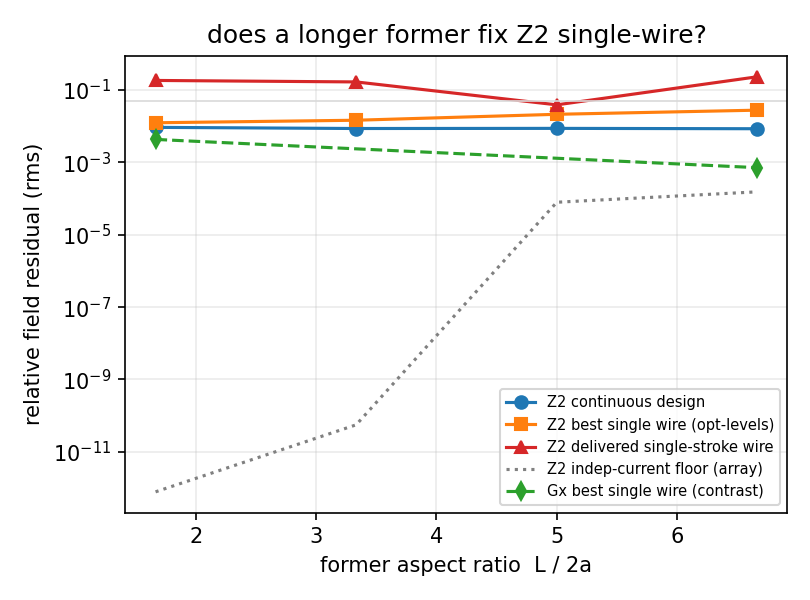
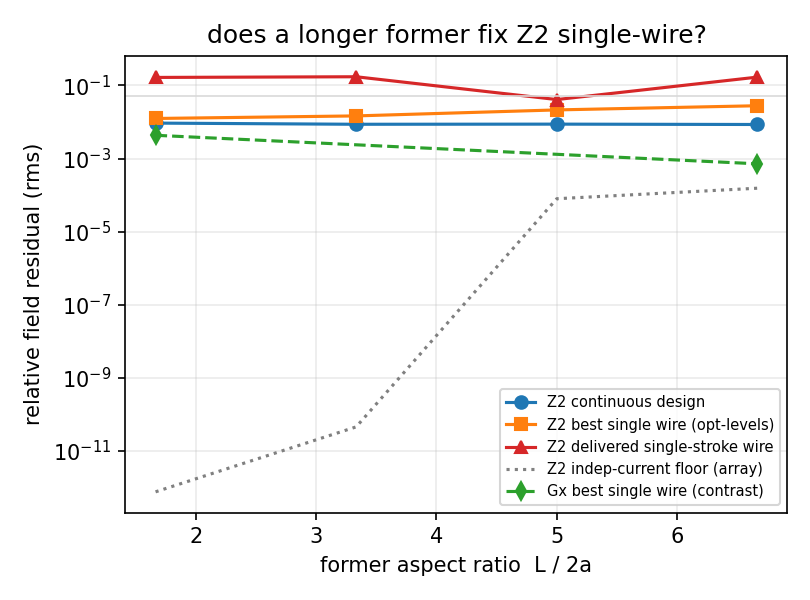
streamfunction: auto-scale field-aware chain resolution -> 3x delivered wire
The DELIVERED single-stroke wire (wire_homogeneity_rms), not the loop set, is
the multi-region (l>=2 saddle, e.g. a Z2 shim) manufacture bottleneck -- and it
was mostly cut-opt UNDER-RESOLUTION. --optimize-levels CLUSTERS the contours to
sharpen the connector-free loop set (Z2 N=20: 0.0098) but clustered contours
chain WORSE, and the old fixed cut-opt (ncut=24, passes=4) left the delivered
wire at ~0.20 -- a 20x gap, and a metric-honesty problem (the flag sharpened the
reported loop-set metric while the wound wire got worse).

_field_aware_chain now AUTO-scales the cut-opt resolution with the loop count
(n_cut ~1.1/loop capped [24,64]; passes 4..8), exposed as --chain-ncut /
--chain-passes (0 = auto). More passes monotonically lower the objective; a
finer n_cut grid samples more cuts -- a strong NET improvement, NOT a strict
per-geometry guarantee (the cut grids for different n_cut are not nested).
Measured: Z2 opt-levels N=20 delivered 0.20 -> 0.067 (3x, then --distort 0.052);
Gx unchanged (0.002); geometry bench (6 formers) 4 better 2-28%, 2 marginally
worse 3-5%.

The 2 knobs are manufacture-only: added to radia_streamfunction.py
_MANUFACTURE_DESTS (shown in the Manufacture panel, kept out of Design/Pareto;
panel-isolation Qt tests green).

Golden: test_streamfunction_levels_golden.py::test_auto_chain_resolution_improves_
delivered_wire_saddle. Geometry bench wire_deliv refreshed.

Verified negative result (radia_mcp.streamfunction low_turn): splitting into one
[…]

diff --git a/packages/radia-mcp/src/radia_mcp/streamfunction/streamfunction_knowledge.py b/packages/radia-mcp/src/radia_mcp/streamfunction/streamfunction_knowledge.py
@@ -233,8 +233,27 @@ field_aware (default) keeps that field small two ways:
       2-opt GUARANTEED never worse than nearest-neighbour while capturing the
       real gains.  (Pure --chain nn keeps NN order + naive closing, no cut-opt,
       so it never sees the 2-opt -- which would only hurt a cut-opt-free chain.)
-field_aware is never worse than nn; with closed contours (--confine abe) it
-reaches the separate-turns floor with no --distort.
+  (3) RESOLUTION -- the cut-opt's candidate count (--chain-ncut, cuts/loop) and
+      descent rounds (--chain-passes) AUTO-scale with the loop count when not
+      given (~1.1 cuts/loop capped [24,64]; passes 4..8).  More loops -> more
+      connectors -> the JOINT cut-opt needs more candidates/rounds to drive
+      their net field to zero.  More PASSES at a fixed n_cut monotonically lower
+      the objective (coordinate descent re-scans the same grid); a higher n_cut
+      samples a FINER but not strictly-nested cut grid, so auto resolution is a
+      STRONG NET improvement (NOT a per-geometry guarantee -- a marginal case can
+      shift a few %).  It matters most for CLUSTERED levels (--optimize-levels
+      packs contours to sharpen the loop-set field): the OLD fixed default (24,4)
+      under-resolved them and left a 45-loop Z2 wire ~0.20 vs a 0.0098 loop-set
+      floor; auto (~50,8) recovers it to ~0.067 (3x, then --distort ~0.052).
+      Override with --chain-ncut / --chain-passes.  (Bench across 6 formers: 4
+      better 2-28%, 2 marginally worse 3-5% -- the cut-grid non-nesting.)
+field_aware is never worse than nn.  For a SINGLE-region (l=1) psi with closed
+contours (--confine abe) it reaches the separate-turns floor with no --distort.
+For a MULTI-region (saddle, l>=2) psi the inter-region connectors leave a
+residual gap above the loop-set floor (clustered Z2: ~0.067 delivered vs ~0.0098
+loop-set) that auto-resolution SHRINKS but does not close -- splitting into one
+wire per current group is WORSE (verified): the cut-opt nulls connectors GLOBALLY
+by cross-cancelling the +/- groups' rungs, a freedom per-group chaining removes.
 
 END-TO-END VALIDATION vs an INDEPENDENT codebase
 ------------------------------------------------
@@ -745,14 +764,24 @@ polyline order is arbitrary, so its winding does not carry the current sign.
 sign(f.B) ('flip every loop to help the target') recovers it ONLY for a MONOTONE
 psi (l=1 gradient); for a SADDLE psi (l>=2 shim: Z2, Z3, C2/S2 ...) the natural
 winding has MIXED senses (the single wire reverses through the saddle) and
-sign(f.B) FLATTENS them, so one common series current cancels itself.  Measured:
-Z2 single-wire 88% (sign(f.B)) -> 5.6% (grad-psi, loop-set) -> ~9% delivered
-(+ field_aware chain + --distort); Gx (l=1) is IDENTICAL either way (grad-psi is
-a strict generalisation).  This was an orientation BUG, not a physics limit --
-single-wire l>=2 shims DO work.  `_gradpsi_signs` / `_build_gradpsi_kdt` in
-calc_streamfunction.py; verified by examples/stream_function/
-verify_gradpsi_orientation.py.  (The ~9% delivered is the documented multi-region
-single-stroke BRIDGE ceiling; sub-1% l>=2 needs multi-wire / independent feeds.)
+sign(f.B) FLATTENS them, so one common series current cancels itself.  Measured
+(L=1.0 former): Z2 single-wire 88% (sign(f.B)) -> 5.6% grad-psi loop-set (uniform
+N=20) / 0.98% with --optimize-levels -> ~6.7% DELIVERED single-stroke wire
+(grad-psi + auto-resolution field_aware chain).  Gx (l=1) is IDENTICAL either way
+(grad-psi is a strict generalisation).  This was an orientation BUG, not a physics
+limit -- single-wire l>=2 shims DO work.  `_gradpsi_signs` / `_build_gradpsi_kdt`
+in calc_streamfunction.py; verified by examples/stream_function/
+verify_gradpsi_orientation.py.
+  DELIVERED gap (loop-set ~0.01 vs single-stroke wire ~0.067) = the inter-region
+  CONNECTOR (bridge) field, NOT a loop-set error.  It was mostly chain UNDER-
+  RESOLUTION: the old fixed cut-opt (ncut=24,passes=4) left clustered-level Z2 at
+  ~0.20; auto-scaling resolution with loop count (see 'panel' CHAIN (3)) recovers
+  ~0.067 (3x).  The remaining ~7x gap above the loop-set floor is the irreducible
+  single-series-wire connector cost.  Splitting into one wire PER current group is
+  WORSE (verified: ~0.85): the cut-opt nulls connectors GLOBALLY by cross-
+  cancelling the +/- groups' rungs.  Sub-1% l>=2 therefore needs INDEPENDENT feeds
+  (a driven ARRAY: loops_homogeneity_rms ~ 0, the --pin-tiling regime), NOT one
+  series wire; --distort further bends the one wire (sphere Z2 4.3%->0.36%).
 
 (1) EQUAL-deltaI CONTOURS  (default, --nlevels N)
     N iso-contours at equal psi increments = N equal-current turns; the

diff --git a/src/radia/panels/calc_streamfunction.py b/src/radia/panels/calc_streamfunction.py
@@ -1307,11 +1307,25 @@ def _dedupe(path, tol=1e-10):
 
 
 def _field_aware_chain(loops, signs, mpts, target_flat, vector_b,
-                       n_cut=24, passes=4):
+                       n_cut=None, passes=None):
     """Field-aware single-stroke chain (geometry-independent): visit the
     sign-aligned contour loops in a good order, then choose each loop's
     ENTRY/EXIT point (the cut) by coordinate descent to minimise the full
     one-current WIRE field error ``min_I ||I*(loops + connectors) - B||``.
+
+    Cut-opt RESOLUTION (``n_cut`` candidate cuts/loop, ``passes`` descent
+    rounds) is AUTO-scaled with the loop count when not given: more loops ->
+    more connectors -> the joint cut-opt needs more candidates/rounds to drive
+    their net field to zero.  This matters most for CLUSTERED levels (e.g.
+    --optimize-levels, which packs contours to sharpen the loop-set field): at
+    the under-resolved old default (n_cut=24, passes=4) a 45-loop clustered Z2
+    wire delivered ~0.20 rms vs a 0.0098 loop-set floor; auto-scaling to
+    (~50, ~8) recovers it to ~0.067 (3x).  More ``passes`` at a fixed ``n_cut``
+    monotonically lower the cut-opt objective (coordinate descent re-scans the
+    same grid); a higher ``n_cut`` samples a FINER but not strictly-nested cut
+    grid, so it is a STRONG NET improvement (large on clustered/multi-region
+    coils) but NOT a per-geometry guarantee -- a marginal case can tie or shift
+    a few %.  Override with explicit n_cut/passes (CLI --chain-ncut/--chain-passes).
 
     The loop field is fixed; only the inter-loop connectors (the 'rungs')
     depend on the cuts.  Minimising the TOTAL error (not the connectors in
@@ -1337,6 +1351,11 @@ def _field_aware_chain(loops, signs, mpts, target_flat, vector_b,
     Returns (chain_xyz, n_connectors, connector_length)."""
     if not loops:
         return np.zeros((0, 3)), 0, 0.0
+    n = len(loops)
+    if n_cut is None:               # auto: ~1.1 cuts per loop, capped [24, 64]
+        n_cut = int(min(64, max(24, round(1.1 * n))))
+    if passes is None:              # auto: grow descent rounds with loop count
+        passes = int(min(8, max(4, n // 6 + 4)))
     L0 = [_close_loop(p if s >= 0.0 else p[::-1])
           for p, s in zip(loops, signs)]
     ncomp = len(target_flat)
@@ -2562,7 +2581,9 @@ def run_manufacture(args):
             chain, n_conn, conn_len = _single_stroke_chain(loops_signed)
         else:                                  # field_aware (default)
             chain, n_conn, conn_len = _field_aware_chain(
-                loops, signs, P["mpts"], target_flat, vector_b)
+                loops, signs, P["mpts"], target_flat, vector_b,
+                n_cut=(int(args.chain_ncut) or None),
+                passes=(int(args.chain_passes) or None))
         chain = _dedupe(chain)
         t2 = time.perf_counter()
 
@@ -2875,6 +2896,12 @@ def build_argparser():
                          "connector field; reaches the separate-turns floor "
                          "for closed contours, no distort) or nn (nearest "
                          "neighbour)")
+    ap.add_argument("--chain-ncut", type=int, default=0,
+                    help="field_aware cut candidates per loop (0 = auto-scale "
+                         "with loop count; raise for clustered/many-loop coils)")
+    ap.add_argument("--chain-passes", type=int, default=0,
+                    help="field_aware cut coordinate-descent rounds (0 = auto-"
+                         "scale with loop count)")
     ap.add_argument("--distort", action="store_true",
                     help="single-current sheet-metal wire distortion (manufacture)")
     ap.add_argument("--distort-grid", type=int, default=3,

diff --git a/tests/panels/test_streamfunction_golden.py b/tests/panels/test_streamfunction_golden.py
@@ -65,7 +65,7 @@ def biplanar_vols(tmp_path_factory):
     return coil, evalv
 
 
-def _run_calc(coil, evalv, target, extra=None):
+def _run_calc(coil, evalv, target, extra=None, expect_error=False):
     cmd = [sys.executable, CALC, "--coil-vol", coil, "--eval-vol", evalv,
            "--order", "2"]
     if target is not None:
@@ -82,6 +82,19 @@ def _run_calc(coil, evalv, target, extra=None):
                 or (not r.stderr.strip() and abs(r.returncode) > 1000000)):
             pytest.skip("NGSolve/MKL subprocess env issue (LAB pytest); run "
                         "calc_streamfunction.py directly to verify")
+        # fail-loud calc_main (CLAUDE.md No-Fallback) exits non-zero on an
+        # {"error": ...} result but STILL prints the error JSON to stdout; for
+        # an EXPECTED user error (bad flags / missing material) parse + return
+        # that dict, else re-raise the genuine failure.
+        if expect_error:
+            elines = [ln for ln in r.stdout.splitlines() if ln.strip()]
+            if elines:
+                try:
+                    d = json.loads(elines[-1])
+                    if isinstance(d, dict) and "error" in d:
+                        return d
+                except json.JSONDecodeError:
+                    pass
         raise AssertionError(
             f"calc_streamfunction.py failed (rc={r.returncode}):\n"
             f"STDERR:\n{r.stderr[-1500:]}")
@@ -768,9 +781,11 @@ def test_streamfunction_design_target_harmonic(sample_vols):
 
 
 def test_streamfunction_target_harmonic_xor(sample_vols):
-    """Giving both --target-cf and --target-harmonic is a loud error."""
+    """Giving both --target-cf and --target-harmonic is a loud error (fail-loud
+    calc_main exits non-zero, the error JSON is still on stdout)."""
     coil, evalv = sample_vols
-    r = _run_calc(coil, evalv, "x", extra=["--target-harmonic", "X"])
+    r = _run_calc(coil, evalv, "x", extra=["--target-harmonic", "X"],
+                  expect_error=True)
     assert "error" in r and "not both" in r["error"]
 
 

diff --git a/tests/panels/test_streamfunction_levels_golden.py b/tests/panels/test_streamfunction_levels_golden.py
@@ -93,5 +93,36 @@ def test_optimize_levels_absent_by_default(sample_vols):
     assert r["method"] == "manufacture"
 
 
+def test_auto_chain_resolution_improves_delivered_wire_saddle(sample_vols):
+    """The field-aware cut-opt resolution AUTO-scales with the loop count; for a
+    clustered multi-region (Z2 saddle, --optimize-levels) coil that lowers the
+    DELIVERED single-stroke WIRE field error vs the old fixed (ncut=24, passes=4).
+
+    The loop-set field is fixed; only the inter-loop connectors depend on the
+    cuts.  More passes monotonically lower the cut-opt objective and a finer
+    n_cut grid samples more cuts, so auto resolution is a STRONG NET improvement
+    on clustered coils -- though NOT a per-geometry guarantee (the cut grids for
+    different n_cut are not strictly nested, so a marginal case can shift a few
+    %).  This stubby fixture is firmly in the win regime (the under-resolved
+    default leaves Z2 ~0.18, auto ~0.17; a longer former 0.20 -> 0.067).  Target
+    Z2 via a trailing --target-cf (argparse last-wins over the helper's 'x')."""
+    coil, evalv = sample_vols
+    base = ["--method", "manufacture", "--nlevels", "16", "--optimize-levels",
+            "--eval-max", "40", "--confine", "abe",
+            "--target-cf", "z*z-(x*x+y*y)/2"]
+    old = _run_calc(coil, evalv, base + ["--chain-ncut", "24",
+                                         "--chain-passes", "4"])
+    new = _run_calc(coil, evalv, base)               # auto resolution (default)
+    assert "error" not in old and "error" not in new
+    wo = old["wire_homogeneity_rms"]
+    wn = new["wire_homogeneity_rms"]
+    assert wo > 0.0 and wn > 0.0
+    # measured ~10% delivered-wire gain on this fixture; lock a conservative >=5%
+    # (the gain is geometry-driven, not FP noise, so it is stable on the fixed
+    # fixture mesh).
+    assert wn < 0.95 * wo, \
+        f"auto chain resolution did not improve the delivered wire: {wo} -> {wn}"
+
+
 if __name__ == "__main__":
     pytest.main([__file__, "-v"])

diff --git a/tests/panels/test_streamfunction_iron_golden.py b/tests/panels/test_streamfunction_iron_golden.py
@@ -49,7 +49,7 @@ def iron_vols(tmp_path_factory):
     return coil, evalv, iron
 
 
-def _run_calc(coil, evalv, target, extra=None):
+def _run_calc(coil, evalv, target, extra=None, expect_error=False):
     cmd = [sys.executable, CALC, "--coil-vol", coil, "--eval-vol", evalv,
            "--order", "1", "--eval-max", "30"]
     if target is not None:
@@ -63,6 +63,18 @@ def _run_calc(coil, evalv, target, extra=None):
         if ("mkl" in low or "dll" in low or "libiomp" in low
                 or (not r.stderr.strip() and abs(r.returncode) > 1000000)):
             pytest.skip("NGSolve/MKL subprocess env issue (LAB pytest)")
+        # fail-loud calc_main (CLAUDE.md No-Fallback) exits non-zero on an
+        # {"error": ...} result but STILL prints the error JSON to stdout; for
+        # an EXPECTED user error parse + return that dict, else re-raise.
+        if expect_error:
+            elines = [ln for ln in r.stdout.splitlines() if ln.strip()]
+            if elines:
+                try:
+                    d = json.loads(elines[-1])
+                    if isinstance(d, dict) and "error" in d:
+                        return d
+                except json.JSONDecodeError:
+                    pass
         raise AssertionError(
             f"calc_streamfunction.py failed (rc={r.returncode}):\n"
             f"STDERR:\n{r.stderr[-1500:]}")
@@ -132,7 +144,7 @@ def test_streamfunction_iron_missing_material_raises(iron_vols):
     coil, evalv, iron = iron_vols
     r = _run_calc(coil, evalv, "x",
                   extra=["--iron-vol", iron, "--mu-r", "200",
-                         "--iron-mat", "steel"])
+                         "--iron-mat", "steel"], expect_error=True)
     assert "error" in r and "steel" in r["error"]
 
 

diff --git a/examples/stream_function/bench_low_turn_geometry.py b/examples/stream_function/bench_low_turn_geometry.py
@@ -27,8 +27,17 @@ contour ORIENTATION, now FIXED in production (commit 630ece06): loops are
 oriented by the consistent grad-psi winding K = n_hat x grad_s(psi), not the
 sign(f.B) flip that flattened the saddle's mixed current senses.  POST-FIX this
 bench's best_wire for Z2 is a few-% (was ~70%); see verify_gradpsi_orientation.py
-for the controlled before/after (Z2 88% -> 5.6% loop-set, ~9% delivered single
-wire).  Gx (l=1, monotone psi) is unchanged (~5e-3) and improves with length.
+for the controlled before/after (Z2 88% -> 5.6% loop-set).  Gx (l=1, monotone psi)
+is unchanged (~5e-3) and improves with length.
+
+NOTE on wire_deliv (the DELIVERED single-stroke column): best_wire is the
+connector-FREE loop set; wire_deliv adds the field-aware single-stroke connectors.
+For a multi-region (saddle) psi the connectors are the bottleneck and were
+chain-resolution-limited -- the field-aware cut-opt now AUTO-scales its resolution
+with the loop count (calc_streamfunction --chain-ncut/--chain-passes), which cut a
+clustered Z2 delivered wire ~0.20 -> ~0.067 on a longer former.  This bench's
+wire_deliv reflects that auto-resolution; it stays geometry-limited (the stubby
+aspect 1.7 former holds a ~0.16 connector floor that a longer former relaxes).
 
 Outputs (committed): bench_low_turn_geometry.json + .png next to this script.
 Run:  python bench_low_turn_geometry.py

diff --git a/src/radia/radia_streamfunction.py b/src/radia/radia_streamfunction.py
@@ -39,11 +39,11 @@ _BASE_SKIP = ("coil_vol", "output", "msh_output", "method")
 # mode-specific dest groups (so each sub-panel hides the other modes' knobs)
 _PARETO_DESTS = ("pareto_lever", "alpha_min", "alpha_max", "n_alpha",
                  "linf_iter", "geom_scale_min", "geom_scale_max")
-_MANUFACTURE_DESTS = ("nlevels", "contour_sub", "chain", "distort",
-                      "distort_grid", "distort_iter", "step_output", "peec",
-                      "wire_diam", "peec_freq", "flux_plot", "flux_plane",
-                      "steps_plot", "target_inductance", "resonance_cap",
-                      "nlevels_max")
+_MANUFACTURE_DESTS = ("nlevels", "contour_sub", "chain", "chain_ncut",
+                      "chain_passes", "distort", "distort_grid", "distort_iter",
+                      "step_output", "peec", "wire_diam", "peec_freq",
+                      "flux_plot", "flux_plane", "steps_plot",
+                      "target_inductance", "resonance_cap", "nlevels_max")
 
 
 def _argparser():
